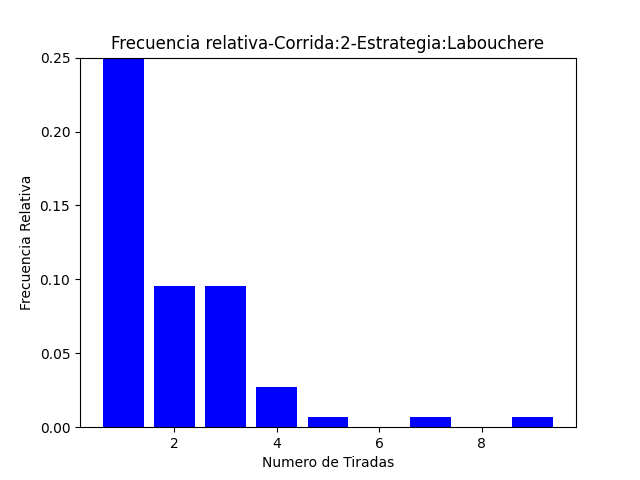
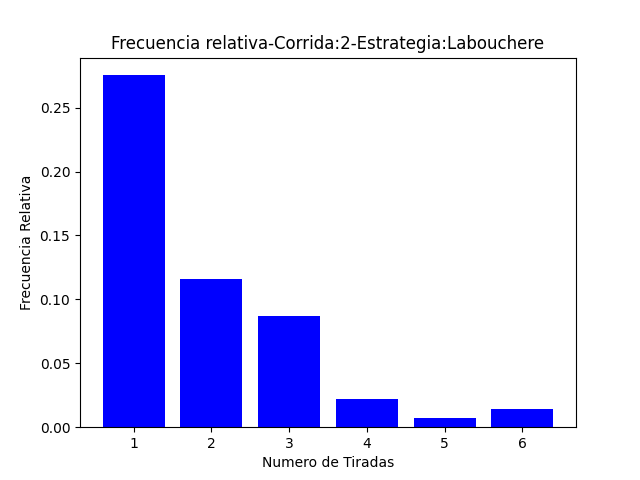
correcionlabouchere

diff --git a/ruleta_1.2.py b/ruleta_1.2.py
@@ -13,7 +13,6 @@ cant_tiradas = int(args[3])
 capital = (args[7])
 estrategia=(args[5])
 rojos = [1, 3, 5, 7, 9, 12, 14, 16, 18, 19, 21, 23, 25, 27, 30, 32, 34, 36]
-negros = [2, 4, 6, 8, 10, 11, 13, 15, 17, 20, 22, 24, 26, 28, 29, 31, 33, 35]
 monto_inicial=5000
 apuesta_gral=150
 tiradas=0
@@ -25,8 +24,6 @@ def seq_fibonacci(n):
         next_fib = fib_sequence[-1] + fib_sequence[-2]
         fib_sequence.append(next_fib)
     return fib_sequence
-
-
 nombres_estrategia={
 'm':'Martingala',
 'f':'Fibonacci',
@@ -103,7 +100,7 @@ def dalembert():
                 break
 def labouchere():
     monto = monto_inicial
-    secuencia_inicial = [50,50,50]  # Secuencia inicial de Labouchere, se puede cambiar
+    secuencia_inicial = [50,60,100,75,150,100]  # Secuencia inicial de Labouchere, se puede cambiar
     secuencia = secuencia_inicial.copy()
     frecuencia = []
     montoTotal = []
